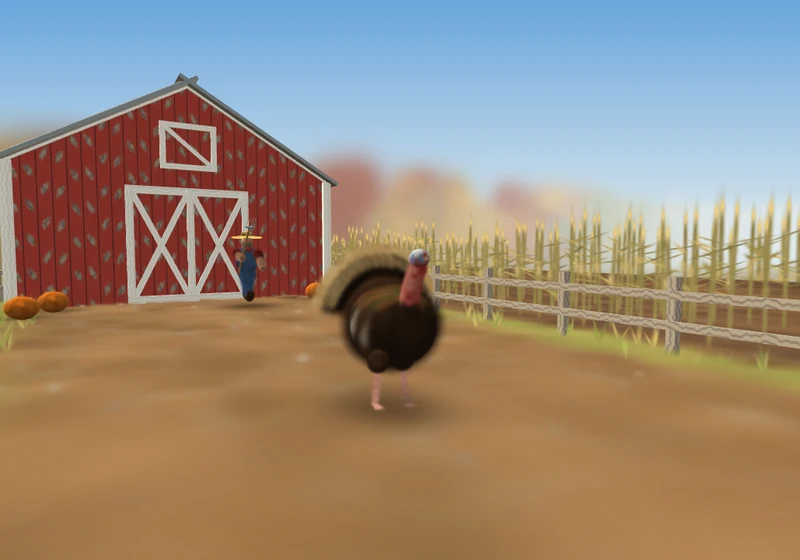
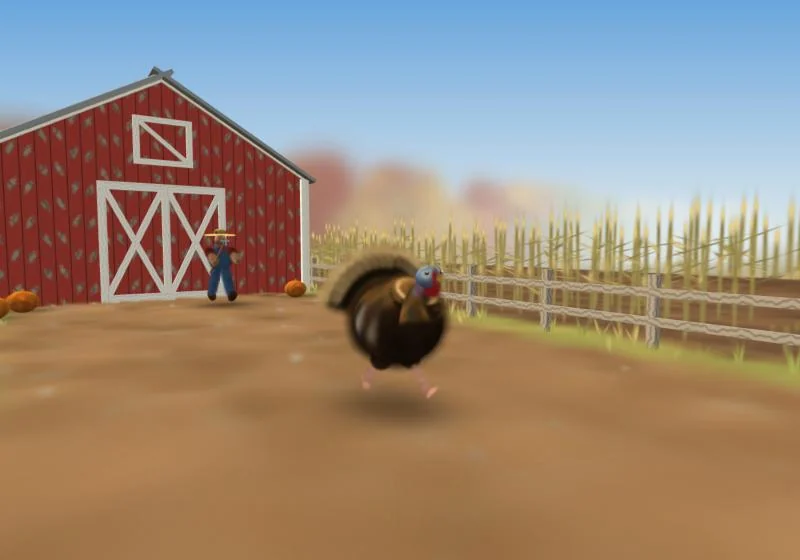
Give the Turkey Escape turkey a proper head and a short feathered neck
The head and neck read as one long skin-pink tube with a pale tip. The head is
now blue-grey and wider than the neck, with forward-set eyes, an orange beak, a
red snood and a lobed red wattle. The neck is shorter, leans forward and is
feathered, and a feather ruff on the body hides the joint. The lobby thumbnail
is retaken to match.

Changed region(s): [[0.0, 0.1214, 1.0, 0.6679], [0.4375, 0.6982, 0.5, 0.7286], [0.0, 0.6071, 0.0312, 0.6375]]

diff --git a/turkey-escape/turkey-escape.html b/turkey-escape/turkey-escape.html
@@ -405,16 +405,39 @@ function buildTurkey(){
   for(let i=0;i<160;i++){const th=rr(-1.3,1.3),s=rr(0.02,0.28),dir=norm([Math.sin(th),Math.cos(th)*Math.cos(tilt),Math.cos(th)*Math.sin(tilt)]);
     sb.stroke(TB[0]+dir[0]*s,TB[1]+dir[1]*s,TB[2]+dir[2]*s+0.02,dir,0.04,0.03,0.01,lit(jit(R()<0.6?hx('#6b4423'):hx('#3d4a2c'),0.15),0,0.3,1),0.97,[0,0.12,1]);}
   out.tail=sb;
+  /* head and neck, in headPivot space (pivot sits at the neck base, the bird faces -z).
+     Short feathered neck that bows back then forward, bare red upper neck, blue-grey head wider than the neck,
+     eyes turned forward, orange beak, red snood and wattle. A feather ruff on the body hides the joint. */
   sb=new SB();
-  for(let k=0;k<12;k++){const t=k/11,cy=-0.05+0.41*t,cz=0.02-0.2*t*t,r=0.075-0.03*t;
-    for(let a=0;a<10;a++){const ang=a/10*TAU+k*0.3,nx=Math.cos(ang),nz=Math.sin(ang);let col=t<0.25?hx('#2a1b10'):mixc(hx('#b9564a'),hx('#d98a7a'),R());
-      sb.disc(nx*r,cy,cz+nz*r,norm([nx,0.1,nz]),0.03,0.03,0.008,lit(jit(col,0.12),nx,0.2,nz),0.95);}}
-  shell(sb,0,0.42,-0.21,0.062,0.06,0.085,150,(u,p,n)=>{const col=u[1]>0.2?hx('#e2e8f2'):u[1]>-0.3?hx('#8fa9d8'):hx('#c0453c');sb.disc(...p,n,0.022,0.022,0.006,lit(jit(col,0.08),...n),1);});
-  for(let i=0;i<28;i++){const t=R(),cz=0.02-0.2*t*t,r=0.075-0.03*t;sb.blob(rr(-0.04,0.04),-0.02+0.36*t,cz-r*0.9,0.02,0.022,0.02,lit(jit(hx('#b3262a'),0.15),0,0.2,-1),1);}
-  sb.blob(0,0.355,-0.25,0.02,0.04,0.025,lit(hx('#c02a2a'),0,0,-1),1);
-  sb.stroke(0,0.43,-0.305,norm([0,-1,-0.25]),0.03,0.013,0.01,lit(hx('#c52f2f'),0,0.3,-1),1);
-  for(const[t,s]of[[0,0.022],[0.5,0.016],[1,0.01]])sb.blob(0,0.415-0.01*t,-0.29-0.04*t,s,s*0.8,s,lit(hx('#cfb586'),0,0.5,-1),1);
-  for(const s of[-1,1]){sb.blob(s*0.054,0.44,-0.24,0.012,0.012,0.008,[0.06,0.04,0.03],1);sb.blob(s*0.059,0.447,-0.247,0.004,0.004,0.003,[1,1,1],0.9);}
+  const nk=t=>[-0.05+0.25*t,0.02+0.108*Math.sin(Math.PI*t)*(1-t)-0.19*t*t,0.118-0.105*Math.pow(t,0.7)+0.03*t*t];
+  const NFE=['#5b3a1e','#8a5a2c','#3e4a2c','#2a1b10','#6b4423','#b07a3c'].map(hx);
+  for(let k=0;k<14;k++){const t=k/13,[cy,cz,r]=nk(t);
+    sb.blob(0,cy,cz,r*0.7,0.03,r*0.7,lit(hx(t<0.7?'#22160d':'#33465e'),0,0.3,-0.5),1);
+    for(let a=0;a<12;a++){const ang=a/12*TAU+k*0.37,nx=Math.cos(ang),nz=Math.sin(ang);
+      if(t<0.7)sb.stroke(nx*r,cy,cz+nz*r,norm([nx*0.5,-1,nz*0.5]),0.046,0.027,0.008,lit(jit(NFE[R()*6|0],0.15),nx,0.25,nz),0.97,[nx,0.2,nz]);
+      else{const s=rr(0.015,0.023),red=R()<0.4;sb.blob(nx*r,cy+rr(-0.008,0.008),cz+nz*r,s,s,s,lit(jit(red?hx('#a3272c'):mixc(hx('#4f6c92'),hx('#6788b0'),R()),0.12),nx,0.25,nz),1);}}}
+  const HC=[0,0.262,-0.205],HR=[0.084,0.074,0.098];
+  sb.blob(...HC,HR[0]*0.75,HR[1]*0.75,HR[2]*0.75,lit(hx('#4d6a8c'),0,0.5,-0.5),1);
+  shell(sb,...HC,...HR,280,(u,p,n)=>{let col=mixc(hx('#6788b0'),hx('#84a6c8'),R());
+    if(u[1]>0.6)col=mixc(col,hx('#a3bfd8'),0.5);else if(u[1]<-0.45&&u[2]>-0.2)col=mixc(hx('#8e2026'),hx('#b02c30'),R());
+    sb.disc(...p,n,0.024,0.024,0.007,lit(jit(col,0.08),...n),1);});
+  for(const[t,s]of[[0,0.037],[0.3,0.031],[0.62,0.023],[1,0.013]])sb.blob(0,HC[1]-0.005-0.03*t,HC[2]-0.075-0.092*t,s,s*0.72,s*1.15,lit(mixc(hx('#e08a1c'),hx('#f4c446'),t),0,0.5,-1),1);
+  for(const[x,y,z,s]of[[0.006,0.039,-0.083,0.014],[0.017,0.029,-0.109,0.013],[0.03,0.008,-0.129,0.013],[0.039,-0.019,-0.137,0.012],[0.043,-0.047,-0.137,0.012],[0.044,-0.071,-0.135,0.015]])
+    sb.blob(x,HC[1]+y,HC[2]+z,s,s*1.15,s,lit(jit(hx('#d8262c'),0.08),0,0.4,-1),1);
+  for(const[lx,ly,lz,n,len]of[[-0.016,-0.058,-0.058,9,0.085],[0.014,-0.062,-0.05,8,0.065],[0,-0.07,-0.02,6,0.05]])for(let i=0;i<n;i++){const t=i/(n-1),s=0.02+0.008*Math.sin(t*Math.PI)-0.004*t;
+    sb.blob(lx*(1+t*0.6)+rr(-0.005,0.005),HC[1]+ly-len*t,HC[2]+lz+0.03*t+rr(-0.005,0.005),s,s*1.2,s,lit(jit(hx('#c8242a'),0.16),lx*8,0.25,-1),1);}
+  for(const s of[-1,1]){const en=norm([s*0.72,0.2,-0.66]),E=k=>[HC[0]+en[0]*(HR[0]+k),HC[1]+en[1]*(HR[1]+k)+0.012,HC[2]+en[2]*(HR[2]+k)];
+    sb.disc(...E(0.012),en,0.03,0.03,0.014,[0.97,0.95,0.9],1,0);
+    sb.disc(E(0.024)[0],E(0.024)[1]-0.002,E(0.024)[2]-0.006,en,0.0155,0.0155,0.008,[0.05,0.035,0.03],1,0);
+    sb.blob(E(0.033)[0],E(0.033)[1]+0.006,E(0.033)[2]-0.009,0.0045,0.0045,0.0045,[1,1,1],1);
+    sb.stroke(E(0.014)[0],E(0.014)[1]+0.036,E(0.014)[2],norm([s*0.66,-0.22,0.72]),0.03,0.008,0.007,lit(hx('#3f5a7c'),...en),1,en);}
+  for(let L=0;L<2;L++)for(let i=0;i<28;i++){const a=i/28*TAU+L*0.11,rad=L?0.158:0.108,x=Math.cos(a)*rad,z=-0.265+Math.sin(a)*rad;
+    const q=1-(x/BR[0])**2-((z-BC[2])/BR[2])**2;if(q<0.03)continue;const y=BC[1]+BR[1]*Math.sqrt(q);
+    const n=norm([x/BR[0]**2,(y-BC[1])/BR[1]**2,(z-BC[2])/BR[2]**2]),o=[Math.cos(a),0,Math.sin(a)],dn=o[0]*n[0]+o[2]*n[2];
+    const lift=L?0.3:0.75,d=norm([o[0]-n[0]*dn+n[0]*lift,-n[1]*dn+n[1]*lift,o[2]-n[2]*dn+n[2]*lift]),h=L?0.022:0.04;
+    const col=jit(mixc(hx('#7a4c24'),hx('#b98440'),R()),0.12),px=x+n[0]*h,py=y+n[1]*h,pz=z+n[2]*h;
+    out.body.stroke(px,py,pz,d,0.058,0.034,0.009,lit(col,...n),0.97,n);
+    out.body.stroke(px+d[0]*0.05,py+d[1]*0.05,pz+d[2]*0.05,d,0.016,0.03,0.009,lit(hx(L?'#1b120c':'#d9b77a'),...n),0.97,n);}
   out.head=sb;
   sb=new SB();
   shell(sb,0,-0.06,0,0.07,0.08,0.07,40,(u,p,n)=>sb.disc(...p,n,0.035,0.035,0.01,lit(jit(hx('#3a2615'),0.15),...n),1));
